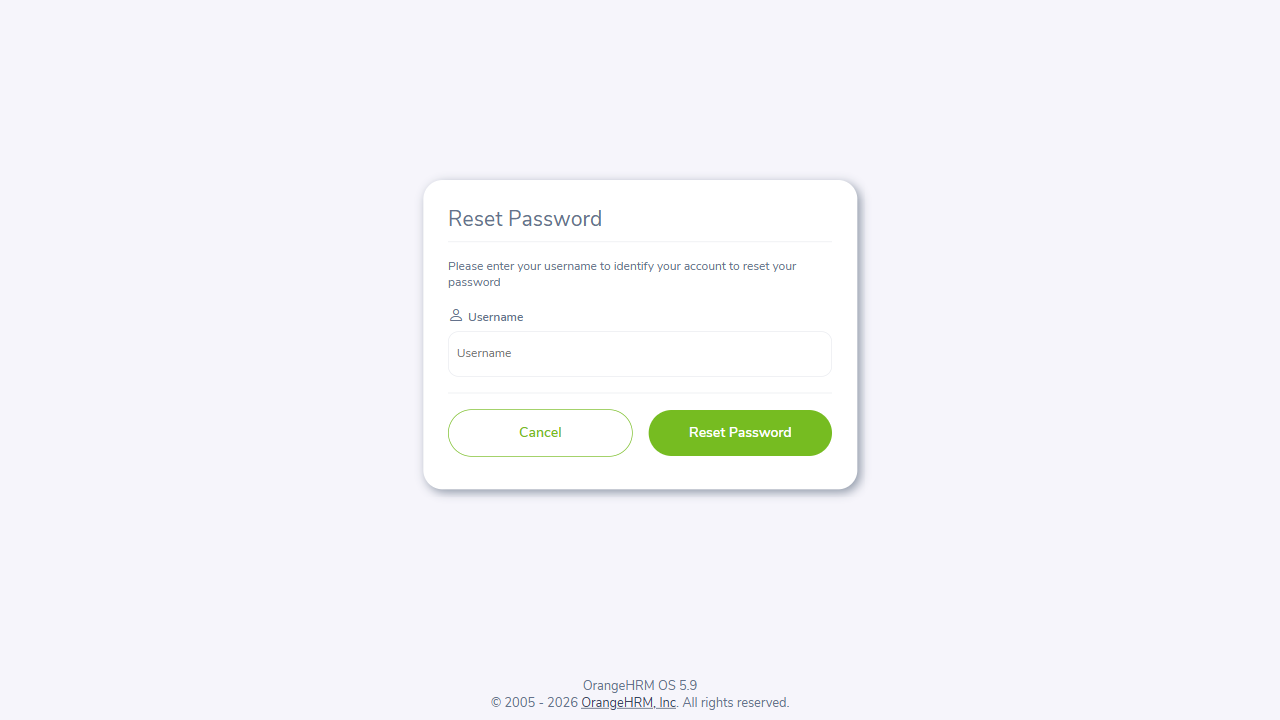
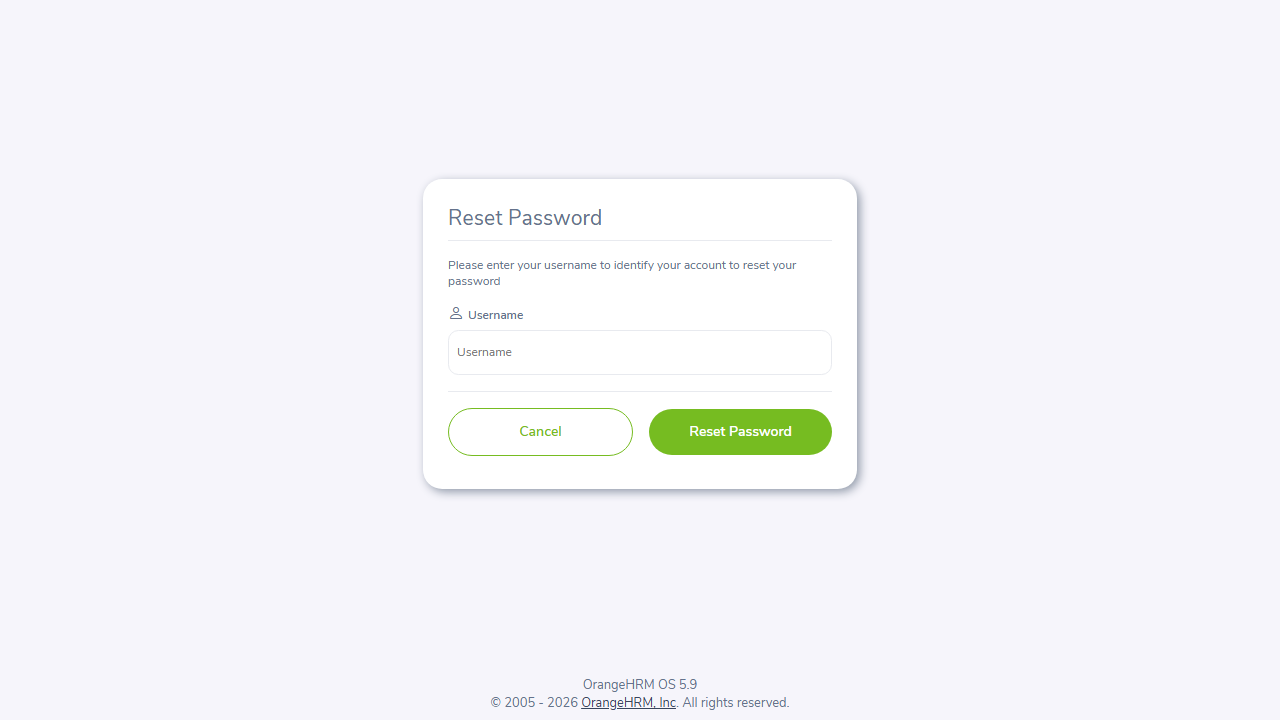
tags test

diff --git a/tests/annotations.spec.js b/tests/annotations.spec.js
@@ -59,7 +59,7 @@ test.fail('Fifth Test',async({page})=>{
     await expect(await page.getByRole('heading',{name:'Dashboard'})).not.toBeVisible()
 })
 
-test('Sixth Test',async({page,browserName})=>{
+test('Sixth Test @regression',async({page,browserName})=>{
     test.fail(browserName === 'firefox')
     await page.goto("https://opensource-demo.orangehrmlive.com/web/index.php/auth/login")
     const username = await page.getByPlaceholder("Username")
@@ -83,7 +83,7 @@ test.fixme('Seventh Test',async({page})=>{
 
 // slow - triplets the timeout (30 seconds * 3 = 90 seconds)
 
-test('Eight Test',async({page})=>{
+test('Eight Test @smoke',async({page})=>{
     test.slow()
     await page.goto("https://opensource-demo.orangehrmlive.com/web/index.php/auth/login")
     const username = await page.getByPlaceholder("Username")
@@ -95,7 +95,7 @@ test('Eight Test',async({page})=>{
 })
 
 // describe - groups related test cases
-test.describe("Login Module",()=>{
+test.describe("Login Module @regression @sanity",()=>{
     test.describe.configure({
         mode: 'parallel',
         retries: 1,

diff --git a/tests/tags.spec.js b/tests/tags.spec.js
@@ -1,0 +1,19 @@
+// tags are used to catogorize tests and then run or exclude specific groups of tests.
+
+import{test,expect} from '@playwright/test'
+
+test('tags test',{tag: '@smoke'},async({page})=>{
+    await page.goto("https://www.playwright.dev")
+     // Expect a title "to contain" a substring.
+    await expect(page).toHaveTitle(/Playwright/);
+})
+
+test('get started link @regression', async ({ page }) => {
+  await page.goto('https://playwright.dev/');
+
+  // Click the get started link.
+  await page.getByRole('link', { name: 'Get started' }).click();
+
+  // Expects page to have a heading with the name of Installation.
+  await expect(page.getByRole('heading', { name: 'Installation',level: 1})).toBeVisible();
+});
